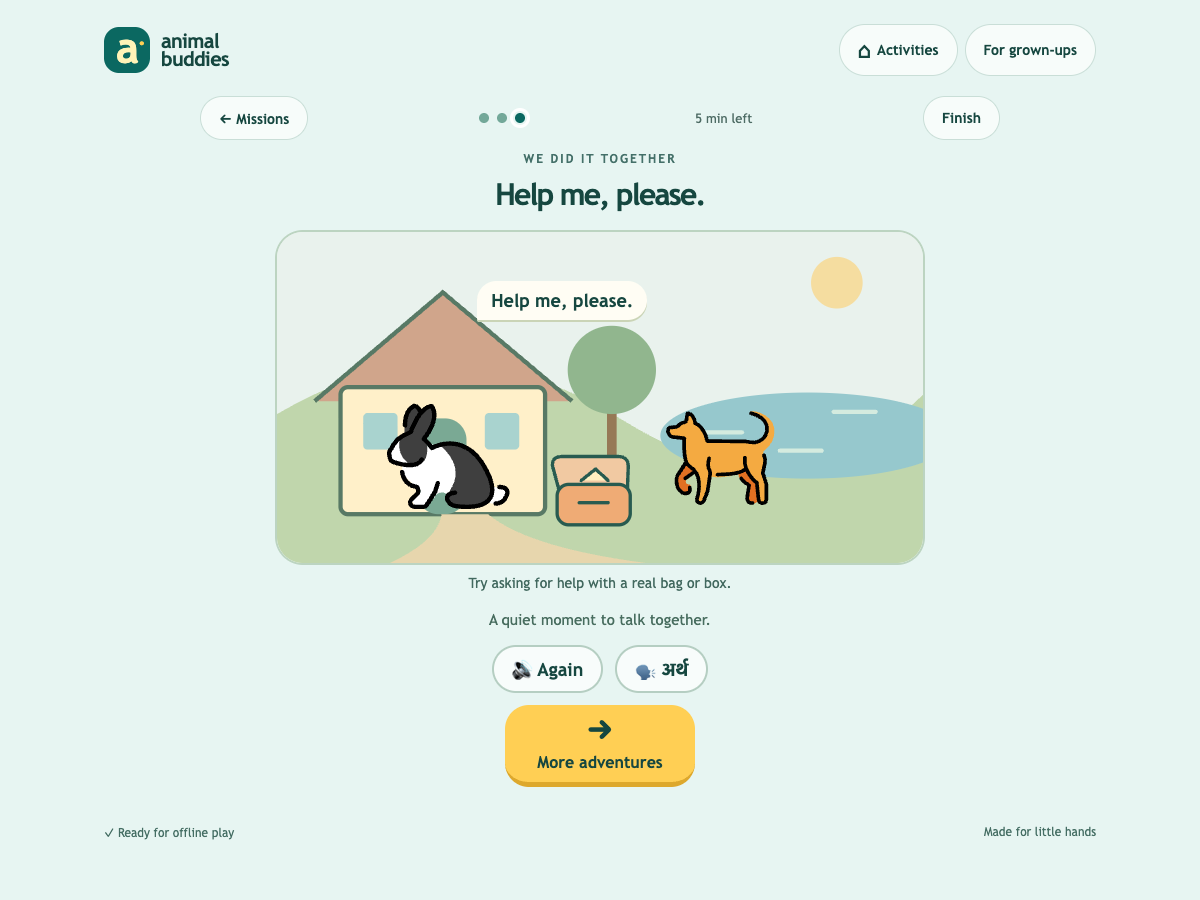
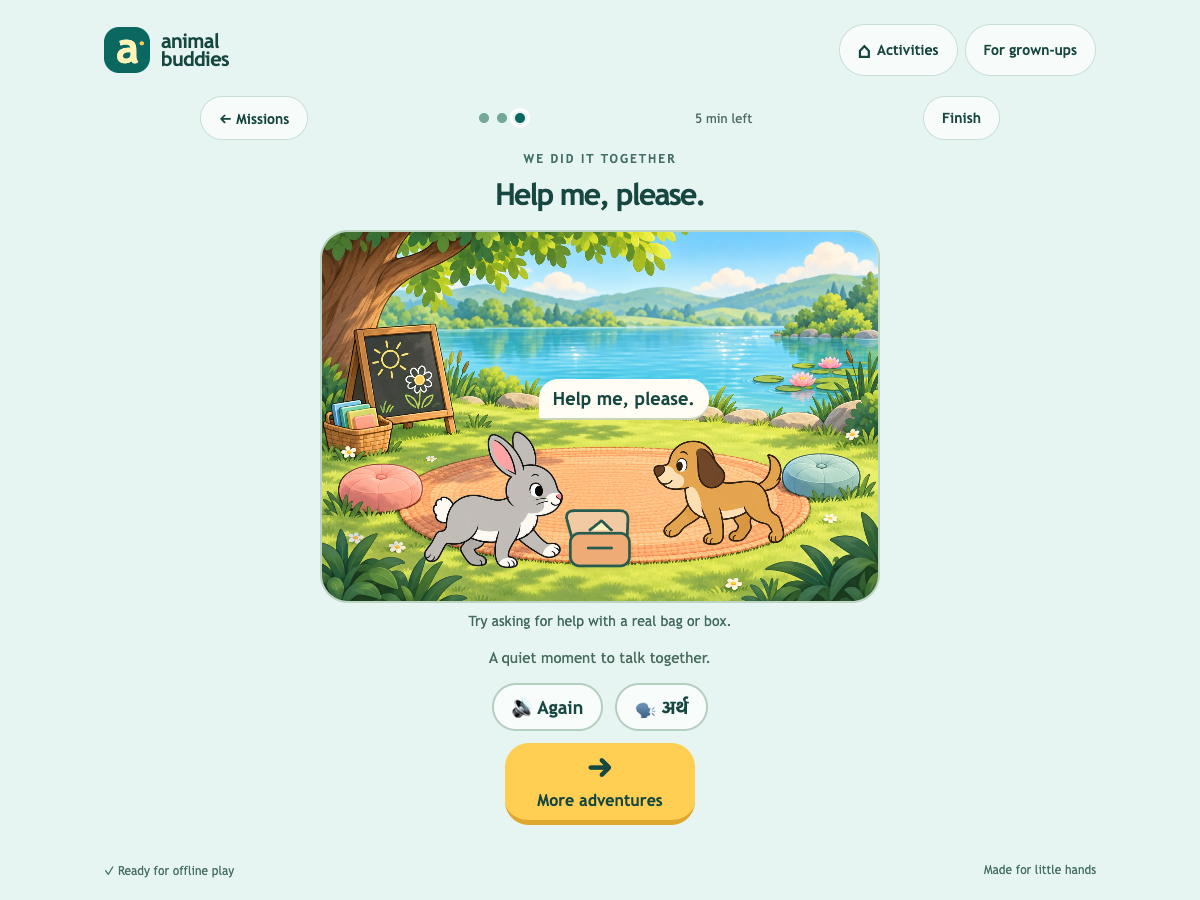
Restore illustrated animals and create outdoor lakeside classroom

diff --git a/app.js b/app.js
@@ -1,4 +1,4 @@
-import {SCHOOL,prop,schoolScene} from './school.js';
+import {SCHOOL,prop,schoolScene,schoolFriend} from './school.js';
 
 const $ = (id) => document.getElementById(id);
 const ANIMALS = [
@@ -362,7 +362,7 @@ function showLibrary(){
  if(session?.status==='ended')return finish(false);
  screen='library';
  const cards=[
- ['school',prop('school'),'Lakeside School','3 · Everyday missions'],
+ ['school','<img class="school-library-art" src="./scenes/lakeside-classroom-v2.png" alt="Outdoor classroom beside the lake">','Lakeside School','3 · Everyday missions'],
  ['names',picture(animal('dog')),'Meet our friends','1 · Names'],
  ['actions',picture(animal('rabbit')),'Animal actions','2 · Actions'],
  ['sentences',prop('book'),'Little sentences','Listen together'],
@@ -384,7 +384,7 @@ function openActivity(id){
 }
 function renderSchoolLobby(){
  stopStory();stopAudio();screen='school-lobby';
- $('main').innerHTML='<section class="school-lobby"><p class="eyebrow">A LITTLE DAY BY THE LAKE</p><h1>Lakeside School</h1><div class="hero-picker" aria-label="Choose your animal">'+['cow','rabbit'].map(id=>'<button class="hero-option" data-hero="'+id+'" aria-pressed="'+(school.hero===id)+'" aria-label="Play as '+animal(id).name+'">'+picture(animal(id))+'<span>'+animal(id).name+'</span></button>').join('')+'</div><div class="support-picker" aria-label="Choose support level"><button data-support="explore" aria-pressed="'+(school.support==='explore')+'">'+prop('wave')+'Explore</button><button data-support="listen" aria-pressed="'+(school.support==='listen')+'">'+prop('ear')+'Listen</button></div><div class="mission-list">'+Object.entries(SCHOOL).map(([id,m])=>'<button class="mission-card" data-mission="'+id+'" aria-label="'+m.title+'">'+prop(m.symbol)+'<span>'+m.title+'</span><small>'+(school.mission===id&&school.step<2?'Continue story':(Number(progress.completed[id])||0)>0?'Visit again':'Let’s try')+'</small></button>').join('')+'</div><button class="sound" id="lobby-listen" aria-label="Hear how to choose">🔊 Listen</button><p class="audio-note" id="audio-note"></p><p class="library-intro">Explore shows a helpful example.<br>Listen lets you try from the spoken instruction.</p><p class="session-note">All missions stay available. Speaking is optional.</p></section>';
+ $('main').innerHTML='<section class="school-lobby"><p class="eyebrow">A LITTLE DAY BY THE LAKE</p><h1>Lakeside School</h1>'+schoolScene(school.hero,'hello',0,true)+'<div class="hero-picker" aria-label="Choose your animal">'+['cow','rabbit'].map(id=>'<button class="hero-option" data-hero="'+id+'" aria-pressed="'+(school.hero===id)+'" aria-label="Play as '+animal(id).name+'">'+schoolFriend(id)+'<span>'+animal(id).name+'</span></button>').join('')+'</div><div class="support-picker" aria-label="Choose support level"><button data-support="explore" aria-pressed="'+(school.support==='explore')+'">'+prop('wave')+'Explore</button><button data-support="listen" aria-pressed="'+(school.support==='listen')+'">'+prop('ear')+'Listen</button></div><div class="mission-list">'+Object.entries(SCHOOL).map(([id,m])=>'<button class="mission-card" data-mission="'+id+'" aria-label="'+m.title+'">'+prop(m.symbol)+'<span>'+m.title+'</span><small>'+(school.mission===id&&school.step<2?'Continue story':(Number(progress.completed[id])||0)>0?'Visit again':'Let’s try')+'</small></button>').join('')+'</div><button class="sound" id="lobby-listen" aria-label="Hear how to choose">🔊 Listen</button><p class="audio-note" id="audio-note"></p><p class="library-intro">Explore shows a helpful example.<br>Listen lets you try from the spoken instruction.</p><p class="session-note">All missions stay available. Speaking is optional.</p></section>';
  document.querySelectorAll('[data-hero]').forEach(el=>el.onclick=()=>{
   school.hero=el.dataset.hero;persist();renderSchoolLobby();play([school.hero+'-name']);
  });
@@ -416,7 +416,7 @@ function renderSchool(){
  screen='game';const id=school.mission,m=SCHOOL[id],done=school.step===2;
  const line=done?m.phrase:school.step===1?m.next:m.prompt;
  $('main').innerHTML='<section class="game school-game"><div class="game-top"><button class="quiet" id="school-back">← Missions</button><div class="steps" aria-label="Step '+(school.step+1)+' of 3">'+[0,1,2].map(i=>'<span class="step '+(i===school.step?'current':i<school.step?'complete':'')+'"></span>').join('')+'</div><span class="time-note" id="time-note"></span><button class="quiet" id="stop">Finish</button></div><p class="eyebrow">'+(done?'WE DID IT TOGETHER':m.title.toUpperCase())+'</p><h1 class="question">'+line+'</h1>'+schoolScene(school.hero,id,school.step)+
- (done?'<p class="parent-prompt">'+m.bridge+'</p>':'<div class="school-actions">'+schoolOptions().map(o=>'<button class="school-action" data-school-choice="'+o.id+'" aria-label="'+o.label+'">'+(o.icon==='teacher'?picture(animal('dog')):prop(o.icon))+'<span>'+o.label+'</span></button>').join('')+'</div>')+
+ (done?'<p class="parent-prompt">'+m.bridge+'</p>':'<div class="school-actions">'+schoolOptions().map(o=>'<button class="school-action" data-school-choice="'+o.id+'" aria-label="'+o.label+'">'+(o.icon==='teacher'?schoolFriend('dog'):prop(o.icon))+'<span>'+o.label+'</span></button>').join('')+'</div>')+
  '<p class="mission-feedback" id="school-feedback" role="status">'+(done?'A quiet moment to talk together.':'')+'</p><div class="sound-controls"><button class="sound" id="listen" aria-label="Hear this step again">🔊 '+(done?'Again':'Listen')+'</button><button class="sound" id="hint" lang="hi" aria-label="Hear Hindi meaning only">🗣 अर्थ</button></div><p class="audio-note" id="audio-note"></p>'+
  (done?'<button class="primary" id="school-next"><span class="big-arrow" aria-hidden="true">→</span><span class="play-label">More adventures</span></button>':'')+'</section>';
  $('school-back').onclick=leaveSchool;$('stop').onclick=()=>finish();

diff --git a/school.js b/school.js
@@ -14,16 +14,20 @@ export function prop(kind){
  ball:'<circle cx="50" cy="50" r="36" fill="#f4c868"/><path d="M17 35q32 8 45-20M28 80q7-36 56-36M51 15q-10 30 21 63" fill="none" stroke="#cd815f"/>',
  teacher:'<circle cx="50" cy="31" r="19" fill="#d7b28c"/><path d="M22 91V74q0-22 28-22t28 22v17" fill="#73a88f"/><path d="M39 30h5m12 0h5M43 41q7 6 14 0" fill="none"/><path d="m14 56 13 12M13 42v12m-8-6 8 6" fill="none"/>',
  ear:'<path d="M30 71q0-13-9-25C1 11 70-7 78 33q3 18-15 31-9 5-11 18-4 18-21 6" fill="#f7d5a0"/><path d="M34 45q-10-22 12-24 22 0 13 23l-13 8v14" fill="none"/>',
- school:'<path d="M9 40 50 9l41 31" fill="#dcaa86"/><path d="M15 40h70v49H15Z" fill="#fff0c4"/><path d="M41 89V60h20v29" fill="#74a99b"/><path d="M23 50h11v13H23Zm44 0h11v13H67Z" fill="#b8e0e3"/>',
+ school:'<ellipse cx="55" cy="78" rx="38" ry="12" fill="#f1c58c"/><path d="M7 31q37-12 86 0v19H7" fill="#9bd4df" stroke="none"/><path d="m16 86 7-69m33 69-6-69" fill="none"/><rect x="13" y="12" width="49" height="48" rx="5" fill="#476e60" stroke="#b98a58" stroke-width="7"/><circle cx="37" cy="34" r="8" stroke="#f9df91"/><path d="M37 20v-3m0 34v-3M23 34h-3m34 0h-3" stroke="#f9df91"/>',
  book:'<path d="M10 17q25-7 40 8 15-15 40-8v63q-25-7-40 8-15-15-40-8Z" fill="#f7d999"/><path d="M50 25v62" fill="none"/>'
  };
  return '<svg viewBox="0 0 100 100" aria-hidden="true" focusable="false" fill="none" stroke="#285b50" stroke-width="3.5" stroke-linecap="round" stroke-linejoin="round">'+(paths[kind]||paths.school)+'</svg>';
 }
-export function schoolScene(hero,id,step){
+// Reuse the original illustrated action characters, not the unrelated icon set.
+export function schoolFriend(id,extra=''){
+ return '<span class="school-character '+extra+'" role="img" aria-label="'+({cow:'Cow',rabbit:'Rabbit',dog:'Dog teacher'}[id])+'" style="--friend-sheet:url(./stories/'+id+'.png)"></span>';
+}
+export function schoolScene(hero,id,step,preview=false){
  const done=step===2,water=id==='water',hello=id==='hello';
- return '<div class="school-scene" role="img" aria-label="School beside a lake. '+(hero==='cow'?'Cow':'Rabbit')+' and their dog teacher. '+(done?SCHOOL[id].done:'')+'">'+
- '<svg class="school-landscape" viewBox="0 0 600 310" preserveAspectRatio="xMidYMid slice" aria-hidden="true"><rect width="600" height="310" fill="#e9f2ed"/><circle cx="520" cy="48" r="24" fill="#f5dda0"/><path d="M0 170Q160 75 320 175T600 152V310H0Z" fill="#c0d6ac"/><ellipse cx="493" cy="190" rx="137" ry="40" fill="#96c8cd"/><path d="M391 187h41m35 17h39m11-36h39" stroke="#d4ebdf" stroke-width="4" stroke-linecap="round"/><path d="M35 158 154 57l120 101" fill="#d0a58b" stroke="#587965" stroke-width="4"/><rect x="59" y="145" width="190" height="118" rx="7" fill="#fff0c9" stroke="#587965" stroke-width="4"/><rect x="130" y="174" width="46" height="89" rx="20" fill="#7aa994"/><rect x="80" y="169" width="32" height="34" rx="4" fill="#a9d3cf"/><rect x="193" y="169" width="32" height="34" rx="4" fill="#a9d3cf"/><path d="M153 263q-4 26-52 47h255q-120-14-160-47" fill="#e7d6ad"/><path d="M311 244V147" stroke="#967956" stroke-width="9"/><circle cx="311" cy="129" r="41" fill="#91b68e"/></svg>'+
- '<img class="school-hero '+(done?(hello?'greeting':water?'drinking':'delighted'):'')+'" src="./animals/'+hero+'.svg" alt=""><img class="school-teacher '+(done&&hello?'greeting':'')+'" src="./animals/dog.svg" alt="">'+
- '<span class="school-prop '+(done&&water?'drinking-prop':'')+'">'+prop(hello?'wave':water?(step===0?'bottle':'cup'):(done?'openbox':'box'))+'</span>'+
+ return '<div class="school-scene '+(preview?'school-preview':'')+'" role="img" aria-label="An outdoor classroom under a tree beside a blue lake, with a picture board, books and a story rug. '+(hero==='cow'?'Cow':'Rabbit')+' and their dog teacher on the dry classroom rug. '+(done?SCHOOL[id].done:'')+'">'+
+ '<img class="school-landscape" src="./scenes/lakeside-classroom-v2.png" alt="">'+
+ '<span class="school-hero">'+schoolFriend(hero)+'</span><span class="school-teacher">'+schoolFriend('dog')+'</span>'+
+ (!preview?'<span class="school-prop '+(done&&water?'drinking-prop':'')+'">'+prop(hello?'wave':water?(step===0?'bottle':'cup'):(done?'openbox':'box'))+'</span>':'')+
  (done?'<span class="school-bubble">'+SCHOOL[id].phrase+'</span>':'')+'</div>';
 }

diff --git a/school.css b/school.css
@@ -13,12 +13,18 @@
 .support-picker svg{width:35px;height:35px}.support-picker [aria-pressed=true]{border-color:#1c7e68;background:#e7f0d3}
 .mission-list{display:grid;grid-template-columns:repeat(3,minmax(0,1fr));gap:12px;margin:20px 0}
 .mission-card{border:2px solid #c5d7c6;border-bottom-width:5px;border-radius:25px;background:#fffdf2;padding:13px 8px;font-weight:800;font-size:16px}.mission-card svg{display:block;width:85px;height:85px;margin:0 auto 10px}.mission-card small{display:block;font-size:12px;color:#537367;margin-top:8px;font-weight:500}
-.school-scene{width:100%;aspect-ratio:600/310;border:2px solid #bcd4c1;border-radius:28px;overflow:hidden;position:relative;background:#e9f2ed;max-width:650px;margin:auto;isolation:isolate}
-.school-landscape{width:100%;height:100%;position:absolute;inset:0}
-.school-hero{position:absolute;left:12%;bottom:7%;width:29%;height:48%;object-fit:contain;transform-origin:50% 90%}
-.school-teacher{position:absolute;right:20%;bottom:12%;width:22%;height:40%;object-fit:contain;transform-origin:50% 90%}
-.school-prop{position:absolute;left:41%;bottom:7%;width:16%;height:29%}.school-prop svg{width:100%;height:100%}
-.school-bubble{position:absolute;left:31%;top:15%;border-radius:20px 20px 20px 2px;background:#fffdf4;padding:9px 14px;font-size:18px;font-weight:800;box-shadow:0 2px 0 #cad4b6}
+.school-scene{width:100%;aspect-ratio:3/2;border:2px solid #bcd4c1;border-radius:28px;overflow:hidden;position:relative;background:#e9f2ed;max-width:600px;margin:auto;isolation:isolate}
+.school-landscape{width:100%;height:100%;position:absolute;inset:0;object-fit:cover}
+.school-character{display:block;aspect-ratio:1;background-image:var(--friend-sheet);background-size:300% 200%;background-position:0 0;background-repeat:no-repeat;width:100%}
+.school-hero{position:absolute;left:15%;bottom:4%;width:31%;transform-origin:50% 90%}
+.school-hero .school-character{transform:scaleX(-1)}
+.school-teacher{position:absolute;right:15%;bottom:9%;width:28%;transform-origin:50% 90%}
+.school-prop{position:absolute;left:43%;bottom:5%;width:14%;height:23%;filter:drop-shadow(0 3px 2px #364c2920)}.school-prop svg{width:100%;height:100%}
+.school-bubble{position:absolute;left:39%;top:40%;border-radius:20px 20px 20px 2px;background:#fffdf4;padding:9px 14px;font-size:18px;font-weight:800;box-shadow:0 2px 0 #cad4b6}
+.school-lobby .school-preview{max-width:440px;margin:12px auto 8px}
+.hero-option .school-character{width:94px;height:94px;margin:auto}
+.school-action .school-character{width:70px;height:70px;margin:auto}
+.library-card.school-card .school-library-art{width:120px;height:85px;object-fit:cover;border-radius:15px}
 .school-actions{display:flex;justify-content:center;gap:16px;margin:17px auto;max-width:470px}
 .school-action{width:160px;min-height:105px;border:2px solid #bfd2b9;border-bottom-width:5px;background:#fffdf2;border-radius:22px;padding:8px;font-weight:800;font-size:16px}
 .school-action svg{width:64px;height:64px;display:block;margin:auto}.school-action.demonstrating{border-color:#0b6861}
@@ -36,3 +42,17 @@
 .school-home-link{margin:16px auto 0}.school-home-link svg{width:38px;height:38px}.school-home-link .sound{padding:8px 18px}.drinking-prop svg path:last-child{opacity:.25}
 
 .school-action .animal{display:block;width:64px;height:64px;object-fit:contain;margin:auto}
+
+/* Keep the illustrated setting visible without pushing the first choices off a phone. */
+@media(max-width:600px){
+ .school-lobby{padding-top:8px}.school-lobby h1{margin-bottom:6px}
+ .school-lobby .school-preview{max-width:270px}
+ .school-lobby .hero-picker{margin:10px auto;gap:12px}.hero-option{padding:5px;width:115px}
+ .hero-option .school-character{width:73px;height:73px}
+ .school-lobby .support-picker{margin:9px 0}.school-lobby .mission-list{margin:12px 0}
+ .school-lobby .mission-card svg{width:52px;height:52px;margin-bottom:5px}
+ .library-card.school-card .school-library-art{width:100px;height:70px}
+ .school-action .school-character{width:56px;height:56px}
+ .school-bubble{top:38%;left:36%}
+}
+@media(min-width:601px){.school-game .school-scene{max-width:560px}}

diff --git a/sw.js b/sw.js
@@ -1,5 +1,5 @@
 
-const CACHE='animal-buddies-offline-v8';
+const CACHE='animal-buddies-offline-v9';
 const ROOT=new URL('./',self.location.href);
 const CORE=['./','./index.html','./style.css','./app.js','./manifest.webmanifest','./icon-192.png','./icon-512.png','./audio-list.json','./asset-list.json'];
 async function allPaths(){

diff --git a/docs/VERIFICATION.md b/docs/VERIFICATION.md
@@ -4,10 +4,10 @@ Run this before publishing. Record actual results in RELEASES.md.
 1. Direction audit: compare delivered scope against every D ID. Label deferred work; do not silently change accepted direction.
 2. Content audit: each mission has one purpose, picture/tap path, meaningful visible outcome, optional speech, neutral recovery, quiet stopping point. No literacy requirement.
 3. Behavioral tests: both heroes, all three missions, both support levels; correct and alternate choices; replay and Hindi meaning; interruption by back, parent settings and page hiding; reload at each checkpoint; completion counts exactly once.
-4. Compatibility regressions: check every current issue in ISSUES.md (currently I01–I14 and T01), including old activities, old storage, shared timer/six turns, next-day renewal, instant restart, all actions, audio-language routing.
+4. Compatibility regressions: check every current issue in ISSUES.md (currently I01–I15 and T01), including old activities, old storage, shared timer/six turns, next-day renewal, instant restart, all actions, audio-language routing.
 5. Offline: fresh complete download; disable network, reload, exercise new content, decode every audio and image. Check correct cache inventory and no runtime API.
 6. Upgrade: seed older deployed files/cache plus ended yesterday and active visits; install candidate; verify automatic refresh, settings/deadlines/checkpoints unchanged, no loop.
-7. Visual: screenshots at 360x740 and desktop; large picture targets, no horizontal overflow, clear progress/back/replay; reduced motion.
+7. Visual: screenshots at 360x740 and desktop; large picture targets, no horizontal overflow, clear progress/back/replay; reduced motion. Check D16/I15: original illustrated animal style throughout school, lake and open-air classroom recognisable without title, no building, characters stand on dry ground; inspect the actual rendered composite, not just its asset.
 8. Publish only after technical failures are corrected. Check GitHub Pages build and public subpath in a new browser; verify release assets served. At handoff, inspect the actual user-visible tab when available; if a completed visit blocks a parent-requested test, use the parent restart and leave the lobby ready without starting its timer (I14).
 9. Human follow-up remains separate: listen to English/Hindi pronunciations; use installed app on actual iPhone/Android; parent observes whether tasks are understood, prompts needed, language/gestures transfer off-screen, and stopping is comfortable. Never mark these passed from browser tests.
 

diff --git a/docs/RELEASES.md b/docs/RELEASES.md
@@ -31,3 +31,10 @@ Not established by these checks: pronunciation quality, installed physical iPhon
 
 ## Actual side-panel recovery — 2026-09-20
 User reported All done after pilot delivery. Inspected the existing public tab using browser accessibility: current Activities button and Lakeside School parent option were present, so the new UI was loaded. The completed visit remained. Used For grown-ups → Restart visit now → Visit Lakeside School. Verified the actual tab now displays cow/rabbit, Explore/Listen and all three missions, plus Ready for offline play. No mission was started. This resolves the immediate testing blockage; parent restart discoverability remains open (I14). This is desktop in-app browser evidence, not installed-phone testing. No game code or daily-limit policy changed.
+
+## Outdoor classroom artwork revision — 2026-09-20, worker v9
+Direction: D16; issues I15, I12 and I13. Reused the existing illustrated action-game cow, rabbit and dog in the school scene, hero picker and teacher choice. Generated an open-air classroom backdrop with a clear lake, tree shade, picture board, books, cushions and story rug; removed the school building. Lobby and library now preview the setting. Exact generation prompt and asset provenance: ARTWORK.md.
+
+Visual review: inspected rendered 360x740 mission/lobby/outcome and 1200x900 outcome screenshots in docs/evidence. Lake, classroom objects and dry character placement remain visible; original illustrated animals face one another; mobile completion button fits. This is an assistant visual review, not a claim that the child recognises the setting.
+
+Technical release gate: all five suites passed locally (docs/evidence/art-local-release.json), including real offline decode of backdrop and all three reused sprite sheets, twelve hero/mission/support combinations, saved progress, original activities and motion, 197 audio clips, single instruction language and pauses, daily restart and historical cache upgrades. Upgrade fixture now derives its synthetic cache revision independently of the current worker number. D01–D15 remain unchanged; no mission, audio, budget or learning-progression changes. Physical-phone and parent/child visual acceptance remain unverified. Public deployment verification pending.

diff --git a/docs/ARTWORK.md b/docs/ARTWORK.md
@@ -1,0 +1,7 @@
+# Lakeside classroom artwork
+
+Generated with the built-in image generation tool, 2026-09-20. Final backdrop: `scenes/lakeside-classroom-v2.png`. Original `stories/cow.png`, `stories/rabbit.png`, and `stories/dog.png` were style references and are reused directly as CSS sprite frames for the actual characters. No runtime image-generation service is required.
+
+## Exact prompt
+
+Use case: illustration-story. Asset type: finished background artwork for a calm toddler game, landscape 1536x1024. Create a beautiful friendly outdoor lakeside classroom, absolutely NO SCHOOL BUILDING, no buildings at all, no words, no letters, no logos, no animals or people (characters are composited by the app). STYLE REFERENCE: the attached animal sprite sheets, use only their warm hand-drawn picture-book cartoon style, soft painted color shading and rounded charcoal outlines; do not include the sheets or any of their animals. Composition: broad quiet blue-turquoise LAKE very clearly visible across the middle background, distant rolling green hills, a few large water lilies near the far right bank. Upper left a friendly spreading leafy tree shades an OPEN AIR CLASSROOM on dry pale green grass in the foreground. A small wooden easel blackboard at upper left foreground with only a simple chalk drawing of a sun and flower (no writing), a low book basket beside it, two little round empty pastel cushions arranged near the sides of a large warm peach woven oval story rug in the lower center. The rug is an open unobstructed playing area: keep the lower middle 65 percent width very clean, so large cow/rabbit at lower left and dog teacher at lower right will be readable. A small curved line of smooth stepping stones separates the dry classroom lawn from the lake, water stays entirely in middle/background. Warm morning light, inviting preschool picture book, generous simple forms readable on a small phone, polished depth and cohesive drawing, calm teal sage butter yellow peach palette. Avoid photorealism, texture noise, busy decorations, pennants, grids, UI, text, borders, buildings, animals, humans. Full bleed artwork.

diff --git a/docs/ISSUES.md b/docs/ISSUES.md
@@ -17,5 +17,5 @@ Keep resolved issues here; removal loses the reason for the regression.
 | I12 | Initial pilot help button used a human icon while teacher was a dog | Replace it with the same dog illustration as the scene | Visual correspondence audit |
 | T01 | First pilot run stopped at parent arithmetic helper | Test regex lost an escape during file creation; fixed to explicit digits | Rerun full pilot; this was a test-harness failure, not a game failure |
 | I13 | Desktop scene placed the teacher visually in the lake | Moved the decorative water behind the grass foreground | Re-rendered scene: teacher and hero remain on land |
-
 | I14 | After the pilot update, the user still saw All done in the actual side-panel tab | Current UI was loaded; a completed visit was retained. Used existing parent Restart visit now, then opened Lakeside School. Immediate blockage resolved; restart discoverability remains a UX follow-up. | Release handoff must inspect the user-visible starting screen; distinguish preserved same-day limit from stale code, and leave parent-requested testing at the lobby without starting its timer. |
+| I15 | User found school animals less friendly than the previous version and could not recognise the lakeside school | Reuse original illustrated cow/rabbit/dog instead of icon animals; replace building with illustrated open-air lakeside classroom, show setting in lobby and library too | Human visual review at phone size without relying on title; scene/choices share same characters; new artwork decodes offline |

diff --git a/docs/DECISIONS.md b/docs/DECISIONS.md
@@ -18,6 +18,7 @@ This record is the reference for future changes, not a claim of educational effi
 | D12 | Preserve data and verify old cached clients on upgrades | Automatic refresh only once assets ready; active deadline/choice preserved; no loop |
 | D13 | Adults and real-world conversation support learning; gestures and Hindi welcome | Quiet pauses, optional speech, parent follow-up; no forced repetition |
 | D14 | Finite authored offline scenes; no live AI chat, microphone, ads, streaks, purchases or compulsory rewards | Runtime network inventory and UI audit |
+| D16 | Preserve the illustrated action-game characters throughout school; outdoor classroom under a tree beside a clearly visible lake, no school building | Inspect scene without its heading; recognisable lake, picture board/books/rug, coherent characters; phone and desktop; offline artwork decode |
 | D15 | Document direction, mistakes, tests, evidence and unresolved work every release | Decision/issue/check mapping in release log |
 
 Current pilot scope: two selectable heroes (cow and rabbit), three short school episodes (greeting, ask for help opening a lunchbox, ask for water), illustration-based activity selection, Explore and Listen support, preserved earlier modes, parent observations, persistent checkpoints and shared visit limits.
